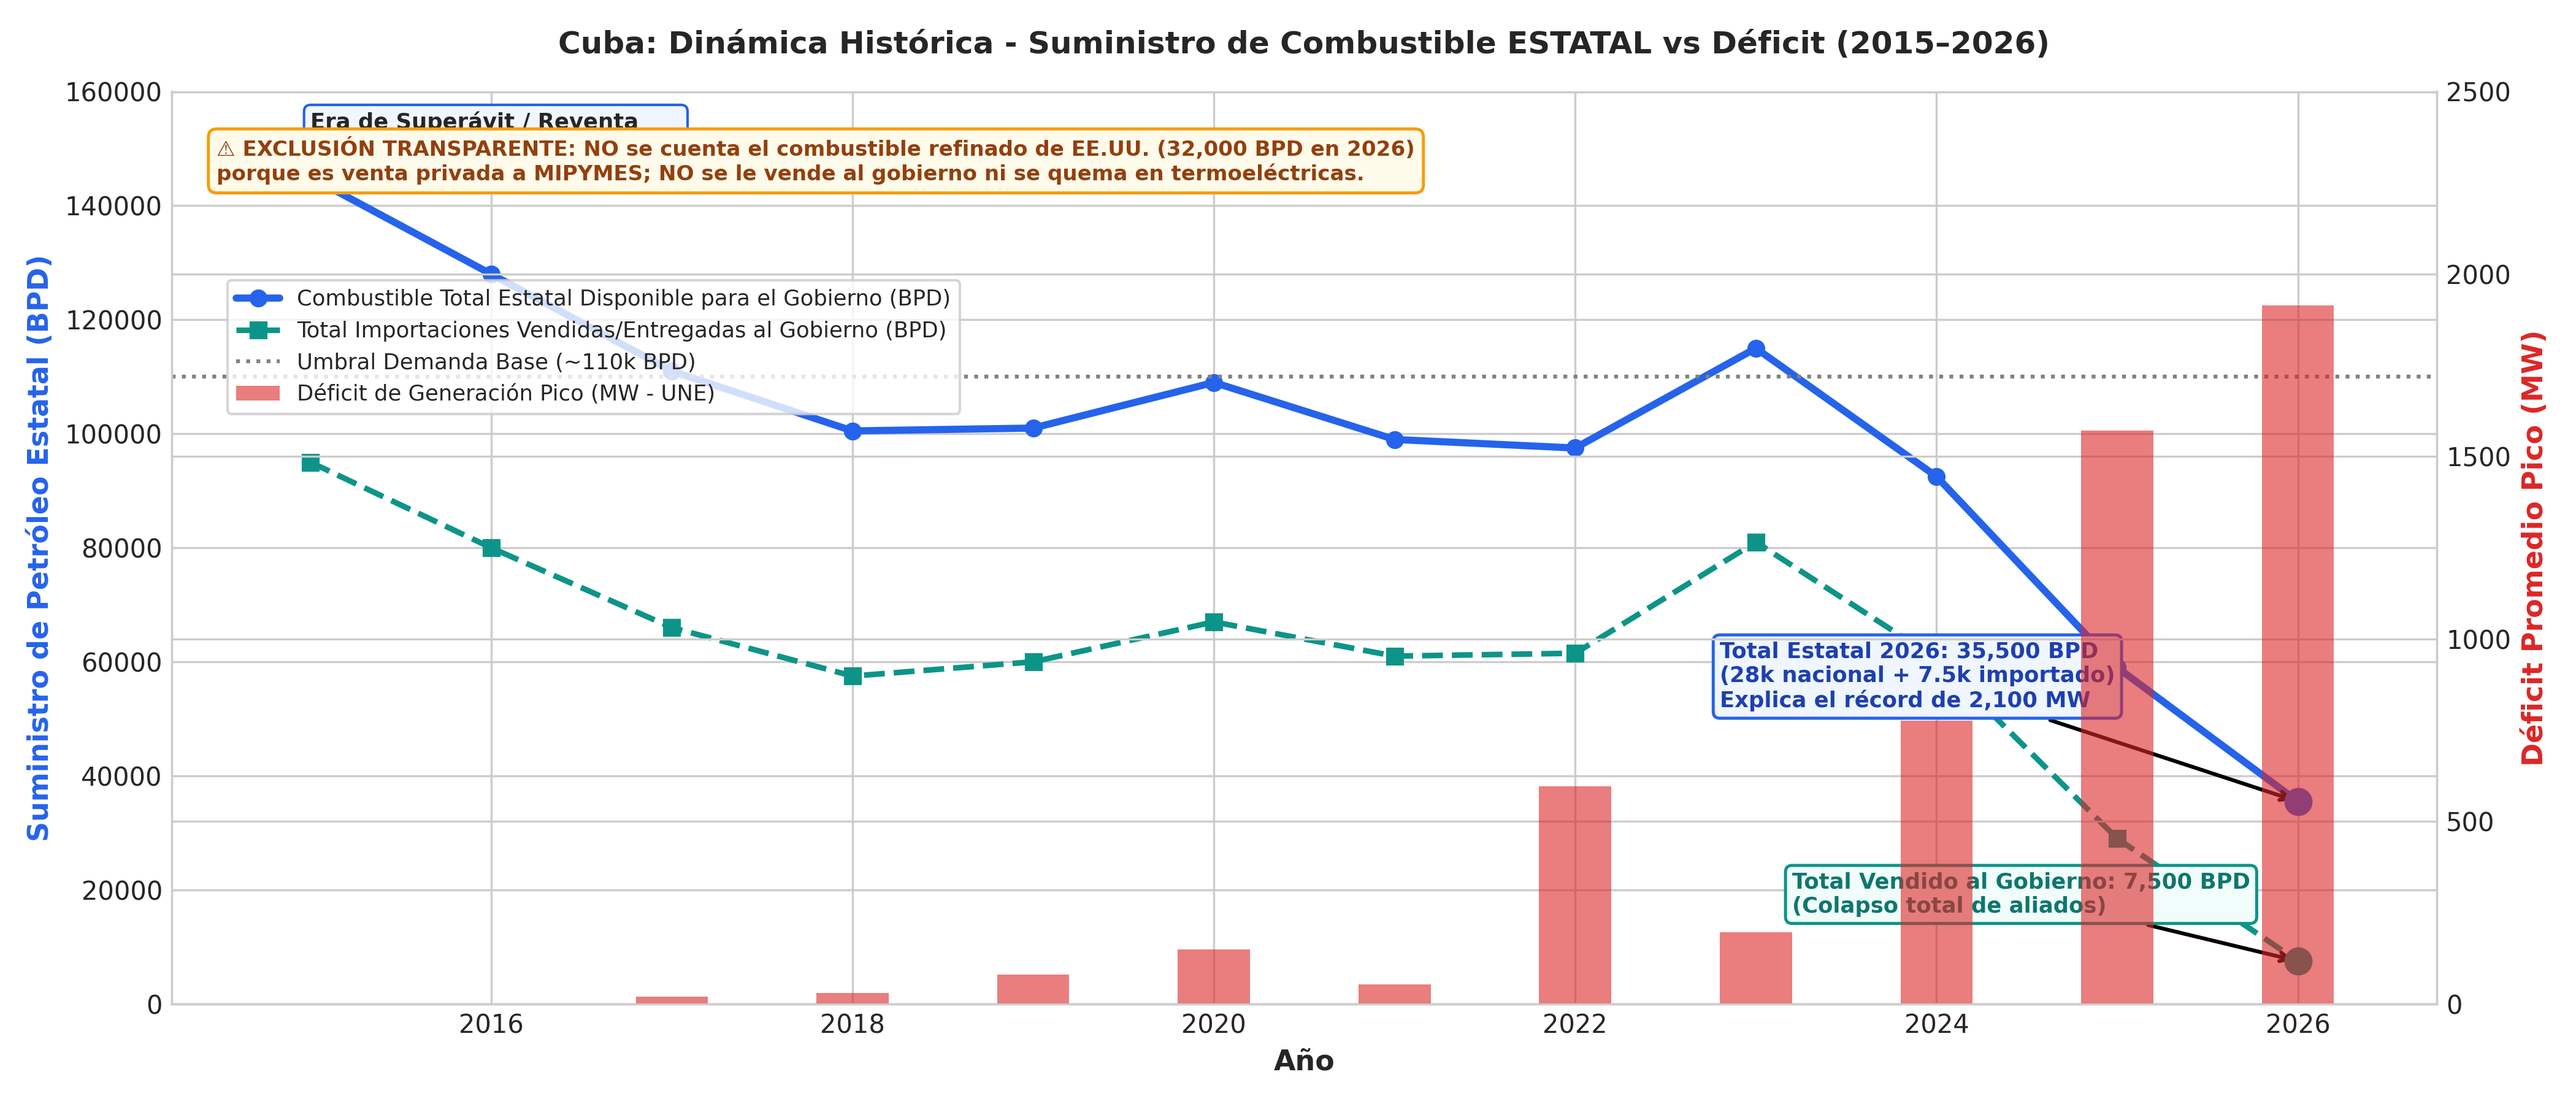
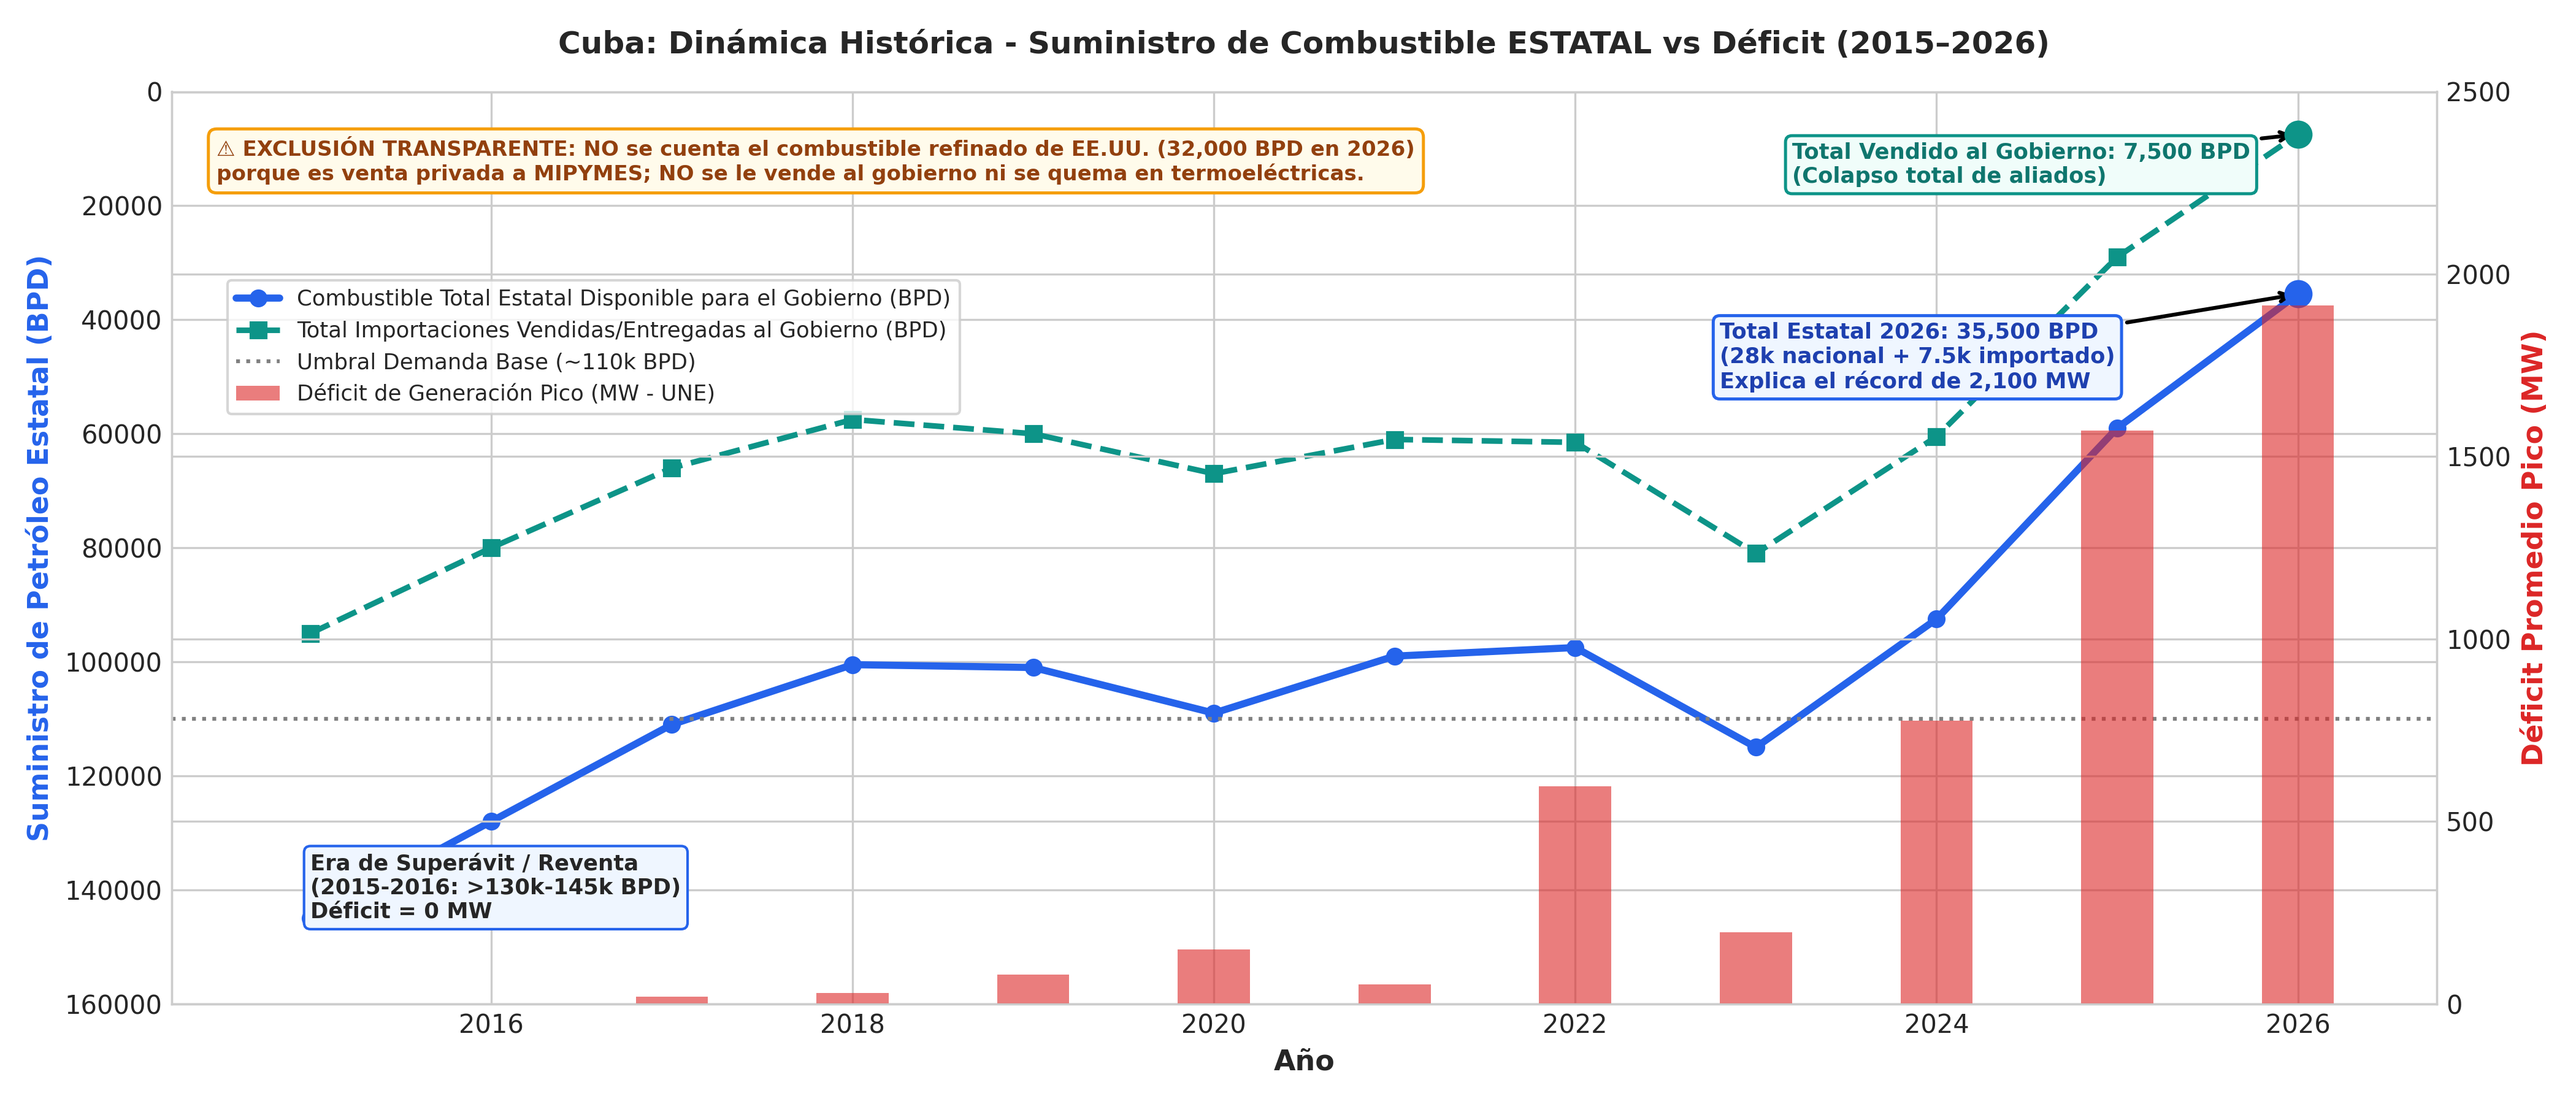
Invertir eje de combustible en grafica de combustible vs deficit (menor arriba, mayor abajo)

diff --git a/analisis_historico_2015_2025/index.html b/analisis_historico_2015_2025/index.html
@@ -255,8 +255,8 @@
       </div>
 
       <div class="chart-container">
-        <div class="chart-title">Suministro Estatal al Gobierno vs Déficit en MW (2015–2026)</div>
-        <div class="chart-caption">Azul: Combustible Estatal Total | Verde punteado: Importado vendido al Gobierno | Barras rojas: Déficit MW. (Excluido el combustible privado de EE.UU.).</div>
+        <div class="chart-title">Suministro Estatal al Gobierno vs Déficit Promedio en MW (2015–2026)</div>
+        <div class="chart-caption">Eje izquierdo invertido (menor combustible arriba, mayor abajo) para visualizar la correlación directa frente al déficit. Azul: Combustible Estatal Total | Verde punteado: Importado vendido al Gobierno | Barras rojas: Déficit Promedio MW.</div>
         <div class="canvas-wrap" style="height: 310px;">
           <canvas id="chartHistoryDeficit"></canvas>
         </div>
@@ -514,7 +514,7 @@
         plugins: { legend: { position: 'bottom', labels: { boxWidth: 10, font: { size: 10 } } } },
         scales: {
           x: { grid: { display: false }, ticks: { font: { size: 10 } } },
-          y: { type: 'linear', position: 'left', min: 0, max: 160000, grid: { color: '#f1f5f9' }, ticks: { font: { size: 9 }, color: '#2563eb' } },
+          y: { type: 'linear', position: 'left', reverse: true, min: 0, max: 160000, grid: { color: '#f1f5f9' }, ticks: { font: { size: 9 }, color: '#2563eb' } },
           y1: { type: 'linear', position: 'right', min: 0, max: 2500, grid: { display: false }, ticks: { font: { size: 9 }, color: '#dc2626' } }
         }
       }

diff --git a/index.html b/index.html
@@ -329,7 +329,7 @@
 
       <div class="chart-container">
         <div class="chart-title">Suministro Estatal al Gobierno vs Déficit Promedio en MW (2020–2026 YTD)</div>
-        <div class="chart-caption">Toca o pasa el cursor sobre los puntos y barras para inspeccionar los datos exactos auditados.</div>
+        <div class="chart-caption">Eje izquierdo invertido (menor combustible arriba, mayor abajo) para visualizar la correlación directa entre caída de combustible y aumento de apagones. Toca o pasa el cursor para inspeccionar.</div>
         <div class="canvas-wrap" style="height: 310px;">
           <canvas id="chartGovVsDeficit"></canvas>
         </div>
@@ -844,6 +844,7 @@
           y: {
             type: 'linear',
             position: 'left',
+            reverse: true,
             min: 0,
             max: 130000,
             grid: { color: '#f1f5f9' },

diff --git a/analisis_historico_2015_2025/generar_analisis_2015_2025.py b/analisis_historico_2015_2025/generar_analisis_2015_2025.py
@@ -120,7 +120,7 @@ ax1.set_xlabel('Año', fontsize=11, fontweight='bold')
 ax1.set_ylabel('Suministro de Petróleo Estatal (BPD)', fontsize=11, color='#2563eb', fontweight='bold')
 ax2.set_ylabel('Déficit Promedio Pico (MW)', fontsize=11, color='#dc2626', fontweight='bold')
 
-ax1.set_ylim(0, 160000)
+ax1.set_ylim(160000, 0) # Eje invertido (menor arriba, mayor abajo)
 ax2.set_ylim(0, 2500)
 
 ax1.scatter([2026], [state_fuel_available[-1]], color='#2563eb', s=100, zorder=5)

diff --git a/scratch/generate_analysis.py b/scratch/generate_analysis.py
@@ -112,7 +112,7 @@ ax1.set_xlabel('Año', fontsize=11, fontweight='bold')
 ax1.set_ylabel('Suministro de Petróleo Estatal (BPD)', fontsize=11, color='#2563eb', fontweight='bold')
 ax2.set_ylabel('Déficit de Generación Pico (MW - UNE)', fontsize=11, color='#dc2626', fontweight='bold')
 
-ax1.set_ylim(0, 130000)
+ax1.set_ylim(130000, 0) # Eje invertido (menor arriba, mayor abajo)
 ax2.set_ylim(0, 2500)
 
 # Anotación y etiquetas en 2026 para ambas líneas del Gobierno
